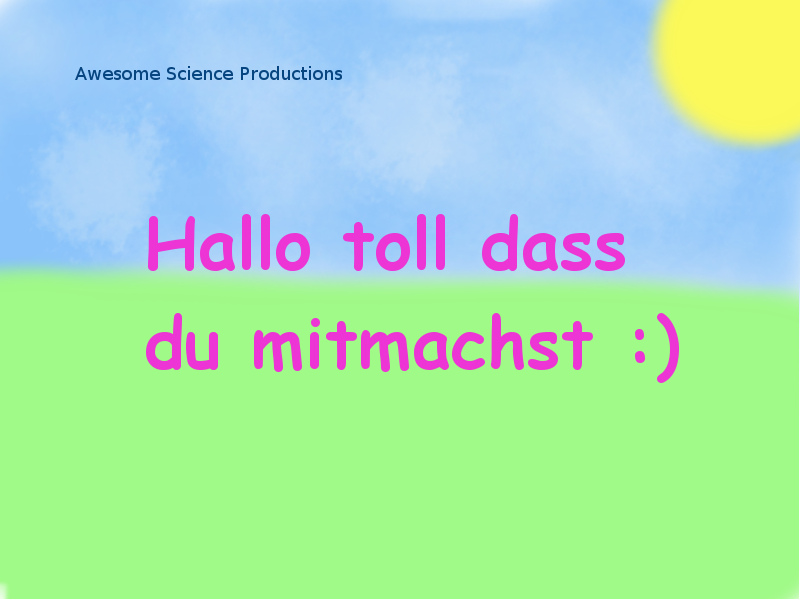
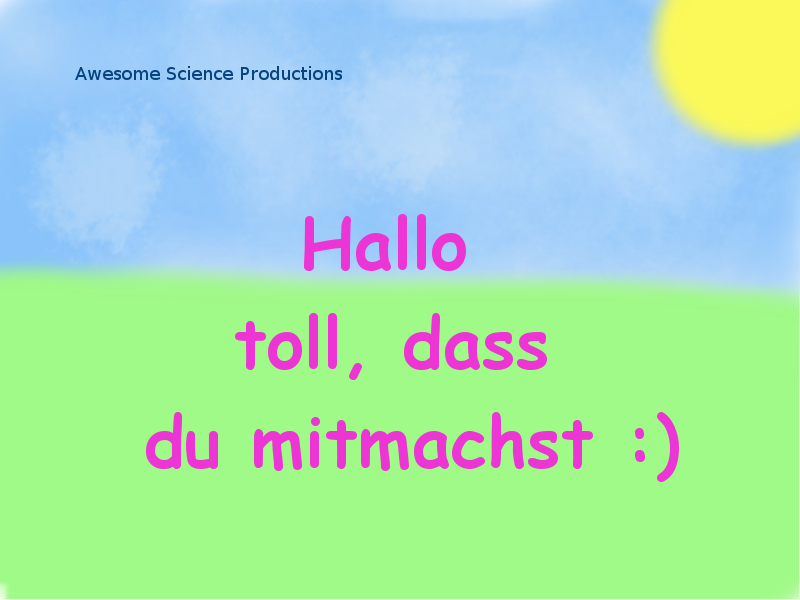
start and end :) now deploying

diff --git a/goshapes2.m b/goshapes2.m
@@ -503,6 +503,15 @@
     
     def(BNr).ratingVanish      = length(def(BNr).stimInfo) / 100 * def(BNr).ratingCovering ; # ob das rating angezeigt werden soll ? # altlast
   endfor
+  
+   startImgInfo = getFileInfo ( [folder.in 'startup'] , 'startscreen.png' );
+   endImgInfo   = getFileInfo ( [folder.in 'startup'] , 'endscreen.png'   );
+   
+   startImgInfo = makeTexFromInfo (windowPtr , startImgInfo ); 
+   endImgInfo   = makeTexFromInfo (windowPtr , endImgInfo   );
+   
+   startImgInfo.texturerect  = Screen('Rect' , startImgInfo.texture);
+   endImgInfo.texturerect    = Screen('Rect' , endImgInfo.texture  );
 
     
 ################################################################################
@@ -631,7 +640,7 @@
 #   positonArray(3) = {rect.L3};
 #   positonArray(4) = {rect.R1};
 #   positonArray(5) = {rect.R3};
-
+  rect.startup      =  [ x.imgLeftStart  y.imgTopStart  x.imgRightEnd y.imgBotEnd ]
   rect.instructions =  [ x.imgLeftStart  y.imgTopStart  x.imgRightEnd y.imgMidEnd ];
   rect.rating       =  [ x.imgLeftStart  y.imgBotStart  x.imgRightEnd y.imgBotEnd ];
   rect.cross        =  [ x.imgMidStart   y.imgMidStart  x.imgMidEnd   y.imgMidEnd ];
@@ -731,6 +740,8 @@
     
   endfor
   
+   startImgInfo.finrect  = putRectInRect (rect.startup   , startImgInfo.texturerect);
+   endImgInfo.finrect    = putRectInRect (rect.startup   , endImgInfo.texturerect);
   
 ################################################################################
 ## Pause
@@ -757,6 +768,22 @@
      endfor #j=1:length(def(i).EXstimInfo)
      
   endfor #i=1:length(def)
+  
+################################################################################  
+## Startup
+
+      Screen('DrawTexture' , windowPtr , startImgInfo.texture      , [] , startImgInfo.finrect      );
+      Screen('Flip', windowPtr);
+      
+      switch buttonBoxON
+        case false #  tastatur
+          getRatingSpace (instruPauseTime);
+        case true  #  buttonbox
+          cedrusGetRating (handle , instruPauseTime);
+        otherwise
+          error ('critical error - this should not happen');
+      endswitch
+      pause(0.5)
 
 ################################################################################
 ## render testscreens
@@ -1112,7 +1139,24 @@
 
 
   diary off
-  infotainment(windowPtr , 'saving your data')
+  
+################################################################################  
+## Startup
+
+      Screen('DrawTexture' , windowPtr , endImgInfo.texture      , [] , endImgInfo.finrect      );
+      Screen('Flip', windowPtr);
+      
+      switch buttonBoxON
+        case false #  tastatur
+          getRatingSpace (instruPauseTime);
+        case true  #  buttonbox
+          cedrusGetRating (handle , instruPauseTime);
+        otherwise
+          error ('critical error - this should not happen');
+      endswitch
+      pause(0.5)
+  
+#   infotainment(windowPtr , 'saving your data')
 ################################################################################
 ##  end all processes
   infotainment(windowPtr , 'target aquired for termination')
